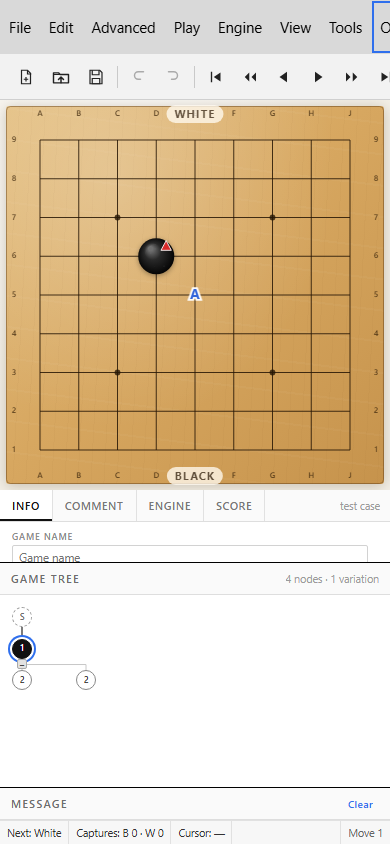
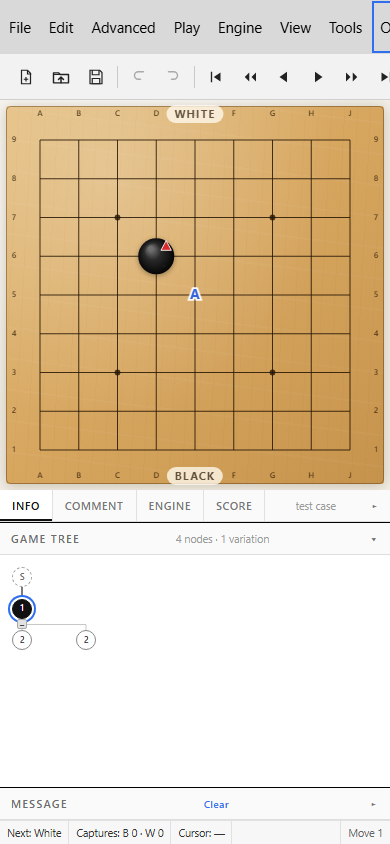
Add portrait panel accordion

diff --git a/src/renderer.js b/src/renderer.js
@@ -109,6 +109,9 @@
   const paneInfo = $('#pane-info');
   const paneMoves = $('#pane-moves');
   const paneMessage = $('#pane-message');
+  const infoHead = $('#info-head');
+  const treeHead = $('#tree-head');
+  const messageHead = $('#message-head');
   const rightColumn = $('#right-column');
   const verticalSplitter = $('#splitter-v');
   const horizontalSplitter = $('#splitter-h');
@@ -846,6 +849,7 @@
   let currentBoard = null;
   let lastBoardError = '';
   let portraitLayout = false;
+  let portraitOpenPanel = 'tree';
   let responsiveFrame = 0;
 
   const startupParams = new URLSearchParams(window.location.search);
@@ -3654,6 +3658,10 @@
 
   function setTab(tab) {
     activeTab = tab;
+    if (portraitLayout) {
+      portraitOpenPanel = 'info';
+      applyPortraitAccordion();
+    }
     if (tab !== 'engine' && window.MultiGoEngine && window.MultiGoEngine.closeConsole) {
       window.MultiGoEngine.closeConsole();
     }
@@ -5792,6 +5800,58 @@
     paneBoard.style.height = `${height}px`;
   }
 
+  function applyPortraitAccordion() {
+    const panels = [
+      ['info', paneInfo, infoHead],
+      ['tree', paneMoves, treeHead],
+      ['message', paneMessage, messageHead],
+    ];
+    for (const [name, pane, head] of panels) {
+      const open = portraitLayout && portraitOpenPanel === name;
+      pane.classList.toggle('is-portrait-open', open);
+      if (portraitLayout) {
+        pane.style.flex = open ? '1 1 auto' : '0 0 32px';
+        head.setAttribute('aria-expanded', String(open));
+        head.tabIndex = 0;
+      } else {
+        head.removeAttribute('aria-expanded');
+        head.removeAttribute('tabindex');
+      }
+    }
+    if (!portraitLayout) paneMoves.style.flex = '';
+  }
+
+  function togglePortraitPanel(name) {
+    if (!portraitLayout) return;
+    portraitOpenPanel = portraitOpenPanel === name ? null : name;
+    applyPortraitAccordion();
+    if (portraitOpenPanel) requestAnimationFrame(resizeBoard);
+  }
+
+  infoHead.addEventListener('click', (event) => {
+    if (!portraitLayout) return;
+    if (event.target.closest('.tab')) {
+      portraitOpenPanel = 'info';
+      applyPortraitAccordion();
+      return;
+    }
+    if (event.target.closest('button')) return;
+    togglePortraitPanel('info');
+  });
+  treeHead.addEventListener('click', () => togglePortraitPanel('tree'));
+  messageHead.addEventListener('click', (event) => {
+    if (event.target.closest('button')) return;
+    togglePortraitPanel('message');
+  });
+  for (const [head, name] of [[infoHead, 'info'], [treeHead, 'tree'], [messageHead, 'message']]) {
+    head.addEventListener('keydown', (event) => {
+      if (event.target !== head) return;
+      if (event.key !== 'Enter' && event.key !== ' ') return;
+      event.preventDefault();
+      togglePortraitPanel(name);
+    });
+  }
+
   function updateResponsiveLayout() {
     if (!tree) return;
     const shouldPortrait = settings.autoLayout !== false && workspace.clientWidth > 0 && workspace.clientWidth < 1120;
@@ -5807,8 +5867,7 @@
     if (shouldPortrait) {
       verticalSplitter.hidden = true;
       paneBoard.style.flex = '0 0 auto';
-      paneInfo.style.flex = '0 0 72px';
-      paneMessage.style.flex = '0 0 32px';
+      if (!portraitOpenPanel) portraitOpenPanel = 'tree';
       sizePortraitBoard();
     } else {
       verticalSplitter.hidden = false;
@@ -5816,6 +5875,7 @@
       document.documentElement.style.removeProperty('--portrait-board-height');
       applyLayout(layout, { persist: false });
     }
+    applyPortraitAccordion();
     updateBowls();
     syncMenuState();
     requestAnimationFrame(resizeBoard);
@@ -5835,10 +5895,12 @@
     horizontalSplitter.hidden = !settings.showTree;
     paneMessage.hidden = false;
     messageSplitter.hidden = false;
-    paneInfo.style.flex = portraitLayout
-      ? '0 0 72px'
-      : (settings.showTree ? `0 0 ${layout.topPct}%` : '1 1 auto');
-    paneMessage.style.flex = portraitLayout ? '0 0 32px' : `0 0 ${layout.messagePct}%`;
+    if (portraitLayout) {
+      applyPortraitAccordion();
+    } else {
+      paneInfo.style.flex = settings.showTree ? `0 0 ${layout.topPct}%` : '1 1 auto';
+      paneMessage.style.flex = `0 0 ${layout.messagePct}%`;
+    }
     paneBoard.classList.toggle('is-zoomed', settings.zoom > 1.001);
     resizeBoard();
   }

diff --git a/src/styles.css b/src/styles.css
@@ -2121,30 +2121,59 @@ kbd {
   min-height: 0;
 }
 
-/* Portrait/mobile: give the board the screen and reduce the side panels to
-   compact strips. Info keeps its tab bar plus a short scroll area; Message is
-   the header strip only; Game Tree takes the remaining panel height. */
-.workspace.is-portrait .pane-info {
-  flex: 0 0 72px;
-  min-height: 0;
+/* Portrait/mobile: the side panels become an accordion of header strips.
+   Exactly the open panel takes the remaining panel height; the other two stay
+   32 px high. The board keeps its maximized height above them. */
+.workspace.is-portrait .pane-info,
+.workspace.is-portrait .pane-moves,
+.workspace.is-portrait .pane-message {
+  flex: 0 0 32px;
+  min-height: 32px;
+  overflow: hidden;
+}
+
+.workspace.is-portrait .pane-info.is-portrait-open,
+.workspace.is-portrait .pane-moves.is-portrait-open,
+.workspace.is-portrait .pane-message.is-portrait-open {
+  flex: 1 1 auto;
+  min-height: 64px;
+}
+
+.workspace.is-portrait .pane-info:not(.is-portrait-open) .tab-panel,
+.workspace.is-portrait .pane-moves:not(.is-portrait-open) .game-tree,
+.workspace.is-portrait .pane-message:not(.is-portrait-open) .statuslog {
+  display: none;
 }
 
 .workspace.is-portrait .pane-info .tab-panel {
   overflow: auto;
 }
 
-.workspace.is-portrait .pane-message {
-  flex: 0 0 32px !important;
-  min-height: 32px;
-  overflow: hidden;
+.workspace.is-portrait .pane-message.is-portrait-open {
+  overflow: auto;
 }
 
-.workspace.is-portrait .pane-message .statuslog {
-  display: none;
+.workspace.is-portrait .pane-info .panel-head,
+.workspace.is-portrait .pane-moves .panel-head,
+.workspace.is-portrait .pane-message .panel-head {
+  cursor: pointer;
+  user-select: none;
 }
 
-.workspace.is-portrait .pane-moves {
-  min-height: 64px;
+.workspace.is-portrait .pane-info .panel-head::after,
+.workspace.is-portrait .pane-moves .panel-head::after,
+.workspace.is-portrait .pane-message .panel-head::after {
+  content: '▸';
+  flex: 0 0 auto;
+  margin-left: 4px;
+  color: #777;
+  font-size: 10px;
+}
+
+.workspace.is-portrait .pane-info.is-portrait-open .panel-head::after,
+.workspace.is-portrait .pane-moves.is-portrait-open .panel-head::after,
+.workspace.is-portrait .pane-message.is-portrait-open .panel-head::after {
+  content: '▾';
 }
 
 .workspace.is-portrait #splitter-v {

diff --git a/src/index.html b/src/index.html
@@ -636,7 +636,7 @@
 
       <div class="right-column" id="right-column">
         <section class="pane pane-info" id="pane-info" aria-label="Game info and comments">
-          <div class="panel-head info-head">
+          <div class="panel-head info-head" id="info-head">
             <div class="tabs" role="tablist" aria-label="Information panels">
               <button type="button" class="tab is-active" id="tab-info" role="tab" aria-selected="true" aria-controls="panel-info" data-tab="info">Info</button>
               <button type="button" class="tab" id="tab-comment" role="tab" aria-selected="false" aria-controls="panel-comment" data-tab="comment">Comment</button>
@@ -877,7 +877,7 @@
              aria-valuemin="12" aria-valuemax="80" aria-valuenow="41" tabindex="0"></div>
 
         <section class="pane pane-moves" id="pane-moves" aria-label="Game tree">
-          <div class="panel-head">
+          <div class="panel-head" id="tree-head">
             <span>Game Tree</span>
             <span class="panel-meta" id="tree-meta">0 nodes</span>
           </div>
@@ -889,7 +889,7 @@
              aria-valuemin="10" aria-valuemax="50" aria-valuenow="20" tabindex="0"></div>
 
         <section class="pane pane-message" id="pane-message" aria-label="Messages">
-          <div class="panel-head">
+          <div class="panel-head" id="message-head">
             <span>Message</span>
             <button type="button" class="message-clear" id="clear-message-button">Clear</button>
           </div>

diff --git a/README.md b/README.md
@@ -47,8 +47,9 @@ Released 2026-11-14. The Windows artifacts are `MultiGo-Neo-1.1.9-setup.exe` and
 
 - **Phone/portrait layout** — below 1120 px the goban takes up to 72% of the workspace height
   and the full available width, with a width cap that removes the empty strip below the board on
-  phones. Info is reduced to a 72 px strip, Message to its 32 px header, and the Game Tree keeps
-  the rest. Go bowls are disabled in portrait and return automatically in landscape.
+  phones. Info, Game Tree and Message become an **accordion**: their 32 px header strips stay
+  visible, tapping a header opens that panel and collapses the other two, and the Game Tree is
+  open by default. Go bowls are disabled in portrait and return automatically in landscape.
 - **Node names** — the 1.1.7 editable `N` labels remain available from the tree.
 
 ### Version 1.1.8
@@ -754,13 +755,16 @@ screenshots against a DevTools-enabled Chromium.
 
 Below **1120 px** the workspace switches to a portrait column: the board sits on top at up to
 72% of the workspace height, capped by the available width so a phone uses the full screen
-width instead of leaving an empty strip. Info is a 72 px strip, Message is its 32 px header,
-and the Game Tree takes the rest. Go bowls are hidden in portrait; the layout returns to the
-remembered landscape proportions, with bowls, when the window grows again.
+width instead of leaving an empty strip. The three lower panels become an accordion: each keeps
+a 32 px header, one panel is open at a time (Game Tree by default), and the open panel takes the
+remaining height. Go bowls are hidden in portrait; the layout returns to the remembered
+landscape proportions, with bowls, when the window grows again.
 
 ![Portrait workspace at 980×900](preview/preview-portrait.png)
 
 ![Phone portrait workspace at 390×844](preview/preview-portrait-mobile.png)
+
+![Portrait accordion with the Info panel open](preview/preview-portrait-accordion.png)
 
 ![四4 coordinates with Chinese row numerals](preview/preview-cjk.png)
 
